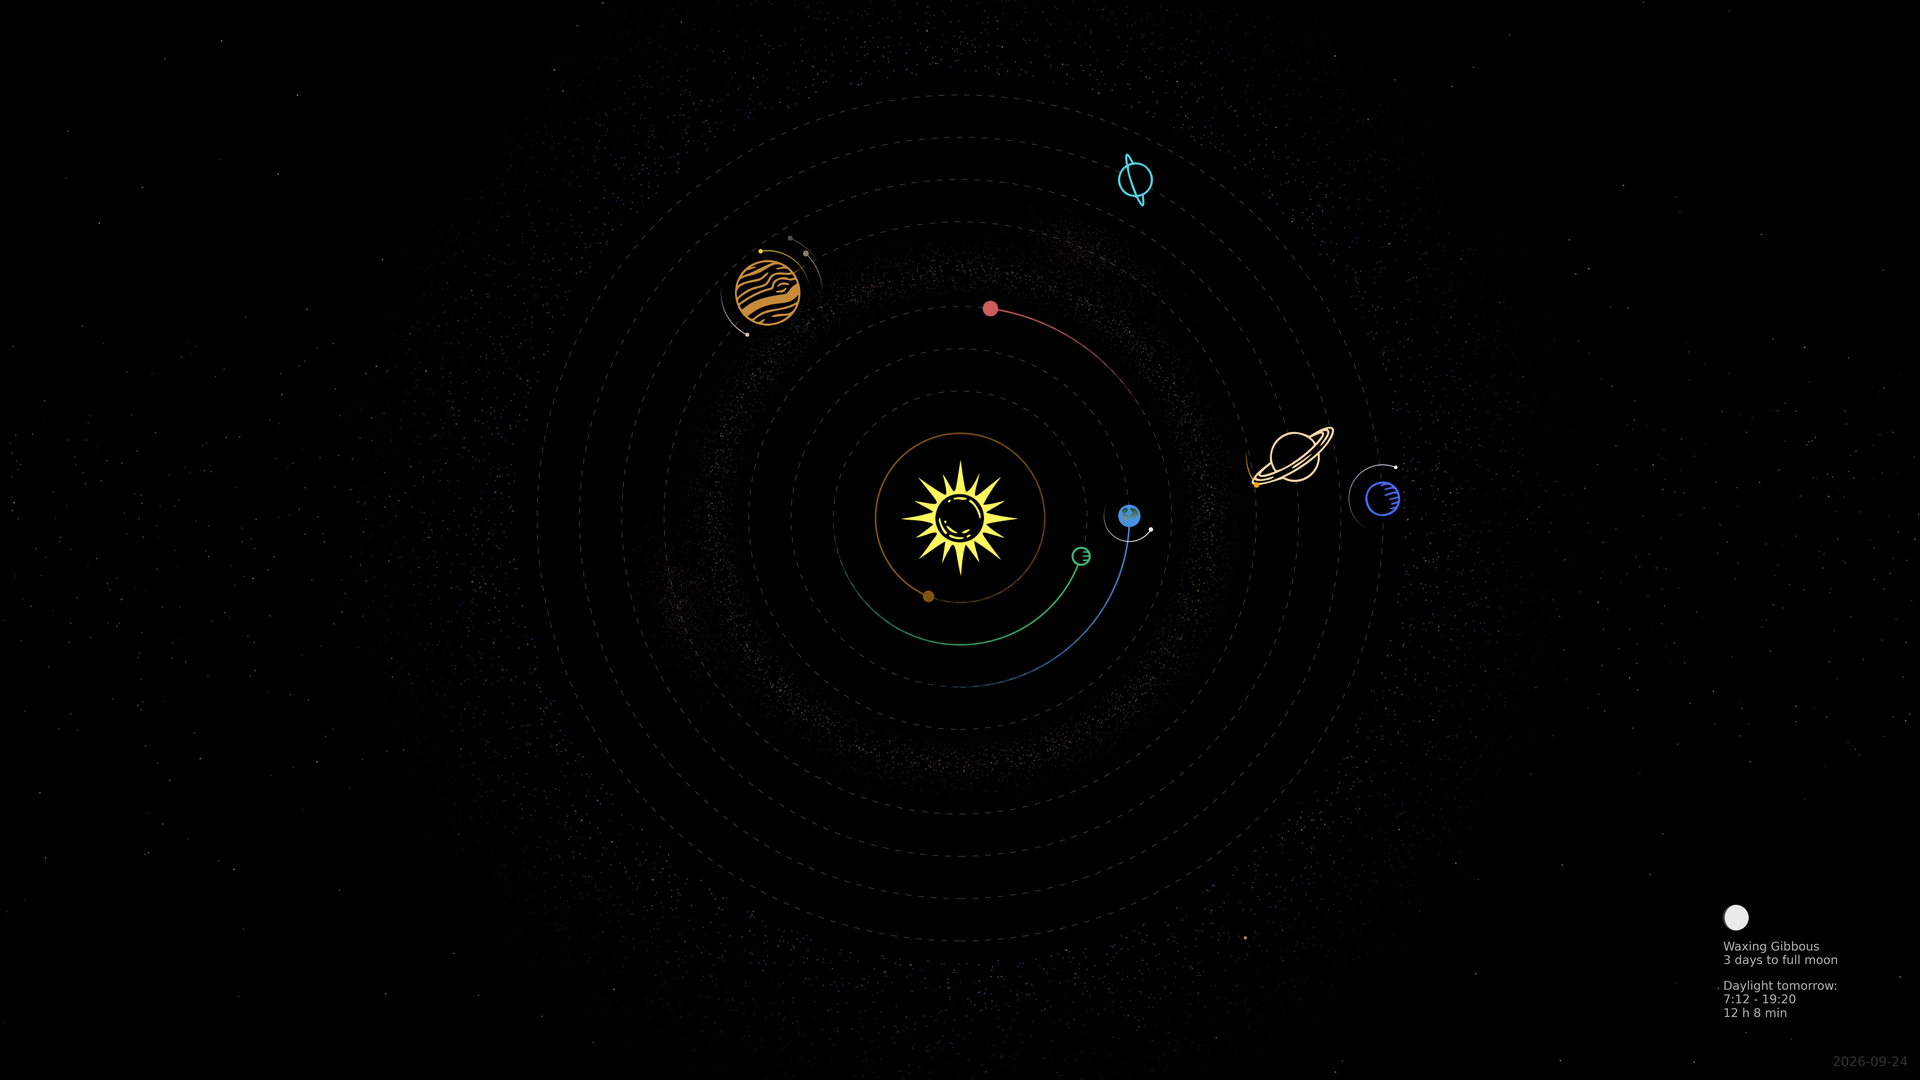
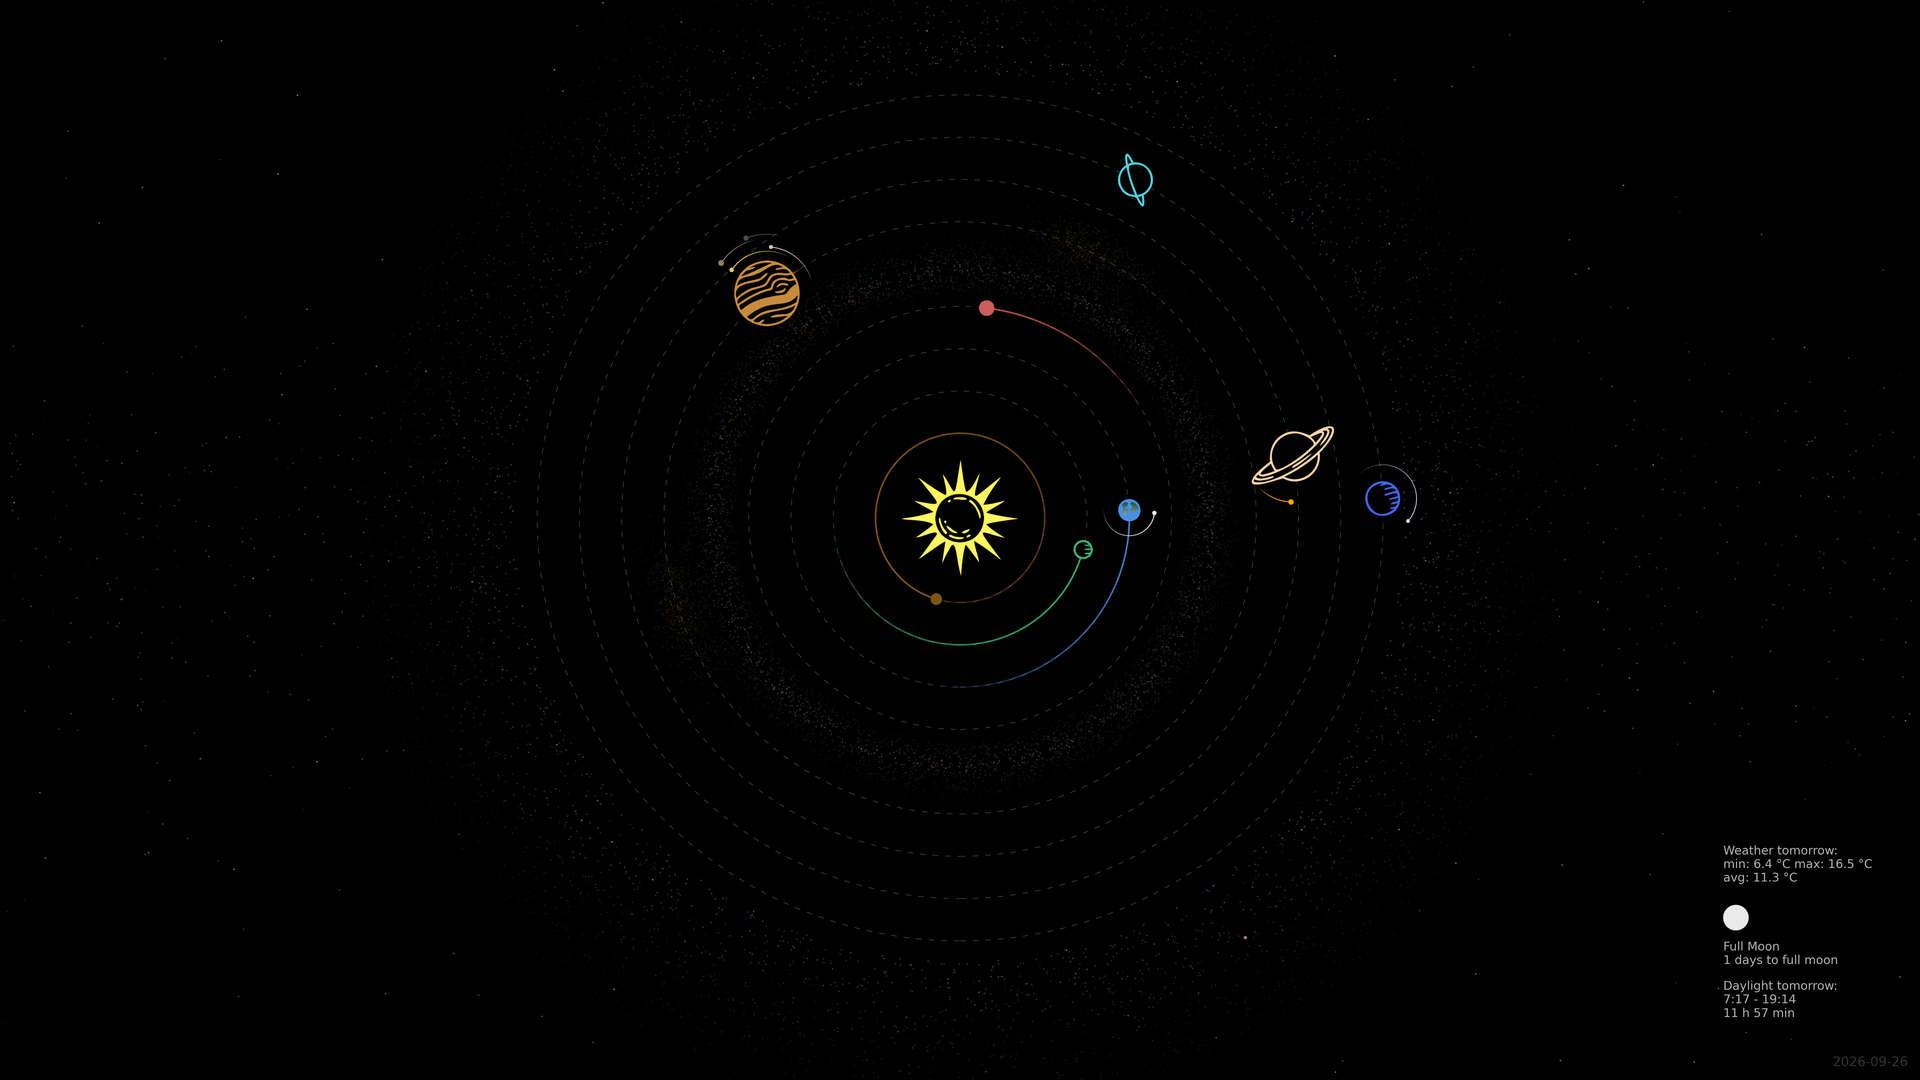
Add weather forecast min/max/avg temperatures

diff --git a/solarmap.py b/solarmap.py
@@ -97,6 +97,9 @@ STRINGS = {
         'heating_05h':      '0,5 h',
         'heating_1h':       '1 h',
         'heating_2h':       '2 h',
+        'weather_header':   'Sää huomenna:',
+        'weather_minmax':   'min: {min:.1f} °C maks: {max:.1f} °C',
+        'weather_avg':      'ka: {avg:.1f} °C',
     },
     'en': {
         'full_moon':        'Full Moon',
@@ -116,6 +119,9 @@ STRINGS = {
         'heating_05h':      '0.5 h',
         'heating_1h':       '1 h',
         'heating_2h':       '2 h',
+        'weather_header':   'Weather tomorrow:',
+        'weather_minmax':   'min: {min:.1f} °C max: {max:.1f} °C',
+        'weather_avg':      'avg: {avg:.1f} °C',
     }
 }
 
@@ -193,8 +199,8 @@ else:
 
 horizons_date = utc.strftime("%Y-%m-%d")
 
-def get_tomorrow_morning_temp(lat, lon):
-    """Get tomorrow's 6 AM temperature from FMI open data."""
+def get_tomorrow_forecast(lat, lon):
+    """Get tomorrow's min/max/avg temperature and 6 AM temperature from FMI open data."""
     import requests
     import xml.etree.ElementTree as ET
     from datetime import datetime, timedelta
@@ -220,7 +226,7 @@ def get_tomorrow_morning_temp(lat, lon):
         print(f"FMI connection status: {response.status_code}")
 
         if response.status_code != 200:
-            return None
+            return None, None, None, None
 
         root = ET.fromstring(response.content)
 
@@ -243,27 +249,32 @@ def get_tomorrow_morning_temp(lat, lon):
                 temps.extend([float(v) for v in values if v not in ['NaN', '']])
 
         # Find 6 AM temperature
+        morning_temp = None
         if timestamps and temps and len(timestamps) == len(temps):
             target_hour = 6
             min_diff = float('inf')
-            morning_temp = None
             for timestamp, temp in zip(timestamps, temps):
                 dt = datetime.fromtimestamp(timestamp)
                 hour_diff = abs(dt.hour - target_hour)
                 if hour_diff < min_diff:
                     min_diff = hour_diff
                     morning_temp = temp
-            return morning_temp
+
+        if temps:
+            avg_temp = sum(temps) / len(temps)
+            return min(temps), max(temps), avg_temp, morning_temp
+        else:
+            print("No temps found!")
 
     except Exception as e:
         print(f"Exception: {e}")
         import traceback
         traceback.print_exc()
 
-    return None
+    return None, None, None, None
 
-# Get tomorrow's 6 AM temperature
-morning_temp = get_tomorrow_morning_temp(latitude, longitude)
+# Get tomorrow's weather forecast (min/max/avg + 6 AM temp)
+min_temp, max_temp, avg_temp, morning_temp = get_tomorrow_forecast(latitude, longitude)
 
 # Planet list
 planets = ['Mercury', 'Venus', 'Earth', 'Mars', 'Jupiter', 'Saturn', 'Uranus', 'Neptune', 'Pluto']
@@ -1016,9 +1027,9 @@ date_str = horizons_date
 info_boxes = []  # each item: {'text': str, 'color': str, 'is_moon': bool}
 
 # 1. Block heater alert (if needed)
-print(f"Morning temperature: {morning_temp}°C, adding block heater alert.")
-if morning_temp is not None and morning_temp < 10:
-    if morning_temp >= 5: # 10...5 C = 0.5h
+print(f"Morning temperature fetched.")
+if morning_temp is not None and morning_temp < 5:
+    if morning_temp >= -5: # 5...-5 C = 0.5h
         heating_time = T['heating_05h']
     elif morning_temp >= -10: # 4...-10 C = 1h
         heating_time = T['heating_1h']
@@ -1034,11 +1045,23 @@ if morning_temp is not None and morning_temp < 10:
 
     info_boxes.append({'text': warning_text, 'color': 'red', 'is_moon': False})
 
-# 2. Moon phase
+# 2. Weather summary (min/max/avg)
+if min_temp is not None:
+    weather_text = (
+        f"{T['weather_header']}\n"
+        f"{T['weather_minmax'].format(min=min_temp, max=max_temp)}\n"
+        f"{T['weather_avg'].format(avg=avg_temp)}"
+    )
+    if LANGUAGE == 'fi':
+        weather_text = weather_text.replace('.', ',')
+
+    info_boxes.append({'text': weather_text, 'color': 'white', 'is_moon': False})
+
+# 3. Moon phase
 moon_text = f"\n\n\n{phase_name}\n{days_to_full:.0f} {T['days_to_full']}"
 info_boxes.append({'text': moon_text, 'color': 'white', 'is_moon': True})
 
-# 3. Daylight
+# 4. Daylight
 daylight_text = (
     f"{T['daylight_header']}\n"
     f"{T['daylight_time'].format(rise=sunrise_time, set=sunset_time)}\n"
